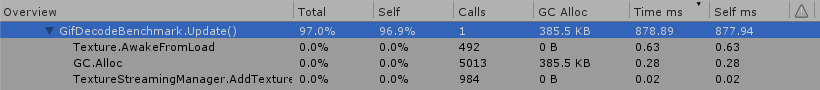
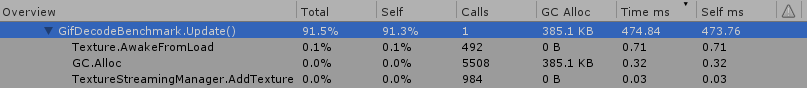
Image decoding refactoring

diff --git a/Assets/Scripts/Runtime/Decode/GifLzwDictionary.cs b/Assets/Scripts/Runtime/Decode/GifLzwDictionary.cs
@@ -1,4 +1,4 @@
-using System;
+using System;
  
 namespace ThreeDISevenZeroR.UnityGifDecoder.Decode
 {
@@ -7,12 +7,8 @@ namespace ThreeDISevenZeroR.UnityGifDecoder.Decode
     /// </summary>
     public class GifLzwDictionary
     {
-        /// <summary>
-        /// Current entry code size in bits
-        /// </summary>
-        public int CodeSize { get; private set; }
-        
-        private readonly Entry[] dictionaryEntries;
+        private readonly int[] dictionaryEntryOffsets;
+        private readonly int[] dictionaryEntrySizes;
         private byte[] dictionaryHeap;
         private int dictionarySize;
         private int dictionaryHeapPosition;
@@ -23,17 +19,21 @@ namespace ThreeDISevenZeroR.UnityGifDecoder.Decode
         private int nextLzwCodeGrowth;
         private int currentMinLzwCodeSize;
 
+        private int codeSize;
         private int clearCodeId;
         private int stopCodeId;
+        private int lastCodeId;
+
         private bool isFull;
-        
+
         /// <summary>
         /// Creates new instance and allocates dictionary resources
         /// </summary>
         public GifLzwDictionary()
         {
-            dictionaryEntries = new Entry[4096];
-            dictionaryHeap = new byte[16384];
+            dictionaryEntryOffsets = new int[4096];
+            dictionaryEntrySizes = new int[4096];
+            dictionaryHeap = new byte[32768];
         }
 
         /// <summary>
@@ -52,7 +52,8 @@ namespace ThreeDISevenZeroR.UnityGifDecoder.Decode
 
                 for (var i = 0; i < colorCount; i++)
                 {
-                    dictionaryEntries[i] = new Entry { heapPosition = dictionaryHeapPosition, size = 1 };
+                    dictionaryEntryOffsets[i] = dictionaryHeapPosition;
+                    dictionaryEntrySizes[i] = 1;
                     dictionaryHeap[dictionaryHeapPosition++] = (byte) i;
                 }
             
@@ -72,43 +73,61 @@ namespace ThreeDISevenZeroR.UnityGifDecoder.Decode
         /// </summary>
         public void Clear()
         {
-            CodeSize = initialLzwCodeSize;
+            codeSize = initialLzwCodeSize;
             dictionarySize = initialDictionarySize;
             dictionaryHeapPosition = initialDictionaryHeapPosition;
-            nextLzwCodeGrowth = 1 << CodeSize;
+            nextLzwCodeGrowth = 1 << codeSize;
             isFull = false;
+            lastCodeId = -1;
         }
 
         /// <summary>
-        /// Is specified entry exists in dictionary
+        /// Decode block reader to canvas
         /// </summary>
-        public bool Contains(int code) => code < dictionarySize;
-        
-        /// <summary>
-        /// Is this code is dictionary clear code?
-        /// </summary>
-        public bool IsClearCode(int code) => code == clearCodeId;
-        
-        /// <summary>
-        /// Is this code is stop code?
-        /// </summary>
-        public bool IsStopCode(int code) => code == stopCodeId;
-
-        /// <summary>
-        /// Output dictionary entry to canvas
-        /// </summary>
-        public void OutputCode(int entry, GifCanvas c)
+        public void DecodeStream(GifBitBlockReader reader, GifCanvas c)
         {
-            if (entry < initialDictionarySize)
+            while (true)
             {
-                c.OutputPixel(entry);
-            }
-            else
-            {
-                var e = dictionaryEntries[entry];
-                var heapEnd = e.heapPosition + e.size;
-                for (var i = e.heapPosition; i < heapEnd; i++)
-                    c.OutputPixel(dictionaryHeap[i]);
+                var entry = reader.ReadBits(codeSize);
+  
+                if (entry == clearCodeId)
+                {
+                    Clear();
+                    continue;
+                }
+
+                if (entry == stopCodeId)
+                {
+                    return;
+                }
+
+                // Decode
+                if (entry < dictionarySize)
+                {
+                    if (lastCodeId >= 0)
+                        CreateNewCode(lastCodeId, entry);
+                
+                    lastCodeId = entry;
+                }
+                else
+                {
+                    lastCodeId = CreateNewCode(lastCodeId, lastCodeId);
+                }
+                
+                // Output
+                if (lastCodeId < initialDictionarySize)
+                {
+                    c.OutputPixel(lastCodeId);
+                }
+                else
+                {
+                    var position = dictionaryEntryOffsets[lastCodeId];
+                    var size = dictionaryEntrySizes[lastCodeId];
+                    var heapEnd = position + size;
+                    
+                    for (var i = position; i < heapEnd; i++)
+                        c.OutputPixel(dictionaryHeap[i]);
+                }
             }
         }
 
@@ -120,35 +139,40 @@ namespace ThreeDISevenZeroR.UnityGifDecoder.Decode
             if (isFull)
                 return -1;
 
-            var entry = dictionaryEntries[baseEntry];
-            var newEntry = new Entry {heapPosition = dictionaryHeapPosition, size = entry.size + 1};
-
-            EnsureHeapCapacity(dictionaryHeapPosition + newEntry.size);
-
-            if (entry.size < 4)
+            var entryHeapPosition = dictionaryEntryOffsets[baseEntry];
+            var entrySize = dictionaryEntrySizes[baseEntry];
+            var newEntryOffset = dictionaryHeapPosition;
+            var newEntrySize = entrySize + 1;
+            var newHeapCapacity = newEntryOffset + newEntrySize;
+            
+            if (dictionaryHeap.Length < newHeapCapacity)
+                Array.Resize(ref dictionaryHeap, Math.Max(dictionaryHeap.Length * 2, newHeapCapacity));
+ 
+            if (entrySize < 12)
             {
                 // It is faster to just copy array manually for small values
-                var endValue = entry.heapPosition + entry.size;
-                for (var i = entry.heapPosition; i < endValue; i++)
+                var endValue = entryHeapPosition + entrySize;
+                for (var i = entryHeapPosition; i < endValue; i++)
                     dictionaryHeap[dictionaryHeapPosition++] = dictionaryHeap[i];
-                
             }
             else
             {
-                Buffer.BlockCopy(dictionaryHeap, entry.heapPosition,
-                    dictionaryHeap, dictionaryHeapPosition, entry.size);
-                dictionaryHeapPosition += entry.size;
+                Buffer.BlockCopy(dictionaryHeap, entryHeapPosition,
+                    dictionaryHeap, dictionaryHeapPosition, entrySize);
+                dictionaryHeapPosition += entrySize;
             }
-            
-            dictionaryHeap[dictionaryHeapPosition++] = GetFirstCode(deriveEntry);
+
+            dictionaryHeap[dictionaryHeapPosition++] = deriveEntry < initialDictionarySize
+                ? (byte) deriveEntry : dictionaryHeap[dictionaryEntryOffsets[deriveEntry]];
 
             var insertPosition = dictionarySize++;
-            dictionaryEntries[insertPosition] = newEntry;
+            dictionaryEntryOffsets[insertPosition] = newEntryOffset;
+            dictionaryEntrySizes[insertPosition] = newEntrySize;
 
             if (dictionarySize >= nextLzwCodeGrowth)
             {
-                CodeSize++;
-                nextLzwCodeGrowth = CodeSize == 12 ? int.MaxValue : 1 << CodeSize;
+                codeSize++;
+                nextLzwCodeGrowth = codeSize == 12 ? int.MaxValue : 1 << codeSize;
             }
 
             // Dictionary is capped at 4096 elements
@@ -156,26 +180,6 @@ namespace ThreeDISevenZeroR.UnityGifDecoder.Decode
                 isFull = true;
 
             return insertPosition;
-        }
-
-        private byte GetFirstCode(int entry)
-        {
-            if (entry < initialDictionarySize)
-                return (byte) entry;
-            
-            return dictionaryHeap[dictionaryEntries[entry].heapPosition];
-        }
-
-        private void EnsureHeapCapacity(int size)
-        {
-            if (dictionaryHeap.Length < size)
-                Array.Resize(ref dictionaryHeap, Math.Max(dictionaryHeap.Length * 2, size));
-        }
-
-        private struct Entry
-        {
-            public int heapPosition;
-            public int size;
         }
     }
 }

diff --git a/Assets/Scripts/Runtime/GifStream.cs b/Assets/Scripts/Runtime/GifStream.cs
@@ -529,48 +529,15 @@ namespace ThreeDISevenZeroR.UnityGifDecoder
         private void DecodeLzwImageToCanvas(int lzwMinCodeSize, int x, int y, int width, int height,
             Color32[] colorTable, int transparentColorIndex, bool isInterlaced, GifDisposalMethod disposalMethod)
         {
-            lzwDictionary.InitWithWordSize(lzwMinCodeSize);
-            
             if (header.hasGlobalColorTable)
                 canvas.BackgroundColor = globalColorTable[header.transparentColorIndex];
             
             canvas.BeginNewFrame(x, y, width, height, colorTable, transparentColorIndex, isInterlaced, disposalMethod);
-
-            var lastCodeId = -1;
-            blockReader.StartNewReading();
-
-            while (true)
-            {
-                var codeId = blockReader.ReadBits(lzwDictionary.CodeSize);
-
-                if (lzwDictionary.IsClearCode(codeId))
-                {
-                    lzwDictionary.Clear();
-                    lastCodeId = -1;
-                }
-                else if (lzwDictionary.IsStopCode(codeId))
-                {
-                    break;
-                }
-                else
-                {
-                    if (lzwDictionary.Contains(codeId))
-                    {
-                        lzwDictionary.OutputCode(codeId, canvas);
-
-                        if (lastCodeId >= 0)
-                            lzwDictionary.CreateNewCode(lastCodeId, codeId);
-
-                        lastCodeId = codeId;
-                    }
-                    else
-                    {
-                        lastCodeId = lzwDictionary.CreateNewCode(lastCodeId, lastCodeId);
-                        lzwDictionary.OutputCode(lastCodeId, canvas);
-                    }
-                }
-            }
             
+            lzwDictionary.InitWithWordSize(lzwMinCodeSize);
+            blockReader.StartNewReading();
+            
+            lzwDictionary.DecodeStream(blockReader, canvas);
             blockReader.FinishReading();
         }
         

diff --git a/Assets/Scripts/Runtime/Decode/GifBitBlockReader.cs b/Assets/Scripts/Runtime/Decode/GifBitBlockReader.cs
@@ -63,10 +63,15 @@ namespace ThreeDISevenZeroR.UnityGifDecoder
         public int ReadBits(int count)
         {
             var result = 0;
-            
-            for(var i = 0; i < count; i++)
+            var bitsToRead = count;
+            var offset = 0;
+
+            while(true)
             {
-                if (currentBitPosition == 8)
+                if(bitsToRead <= 0)
+                    break;
+                
+                if (currentBitPosition >= 8)
                 {
                     currentBitPosition = 0;
                     
@@ -84,8 +89,15 @@ namespace ThreeDISevenZeroR.UnityGifDecoder
                     }
                 }
 
-                result += ((currentByte & (1 << currentBitPosition)) != 0 ? 1 : 0) << i;
-                currentBitPosition++;
+                var bitsAvailable = 8 - currentBitPosition;
+                var mask = (byte) (((1 << bitsToRead) - 1) << currentBitPosition);
+                var readCount = bitsAvailable < bitsToRead ? bitsAvailable : bitsToRead;
+
+                result += ((mask & currentByte) >> currentBitPosition) << offset;
+
+                currentBitPosition += readCount;
+                bitsToRead -= readCount;
+                offset += readCount;
             }
 
             return result;

diff --git a/README.md b/README.md
@@ -70,10 +70,10 @@ Since gif is archaic format which requires sequential reading of all data (No mu
 - Lzw dictionary uses own byte array heap, so insertions and deletions not use allocations
 - Pixels decoded from lzw dictionary are placed straight to final location, even when deinterlacing is used, no deinterlace postprocess step
 
-For benchmark: SourPls 3x, 112x112, one global palette, 491 frames  
+For benchmark: SourPls 3x, 140x140, one global palette, 491 frames  
 ![GifDecoder](https://cdn.betterttv.net/emote/566ca38765dbbdab32ec0560/3x)
 
-This library, ~1.78 ms per frame, 385.5kb of memory allocated
+This library, ~0.96 ms per frame, 385.1kb of memory allocated
 ![GifDecoder](.Images/GifDecoderBench.png)
 
 UniGif for comparsion, ~19.27ms per frame, 0.81**gb** of memory allocated
@@ -96,6 +96,8 @@ Changelog
   - Initial version
 - 1.0.1
   - Delay changed to int and few utility methods added to read it as seconds or milliseconds
+- 1.0.2
+  - Image decoding refactoring, resulting nearly 2x performance boost
 
 TODO:
 -
